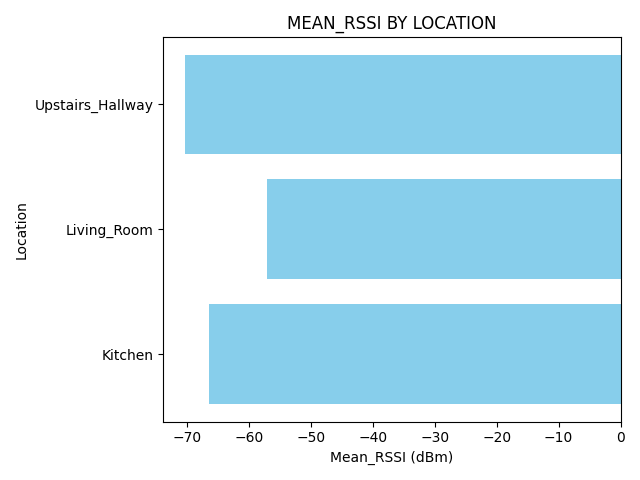
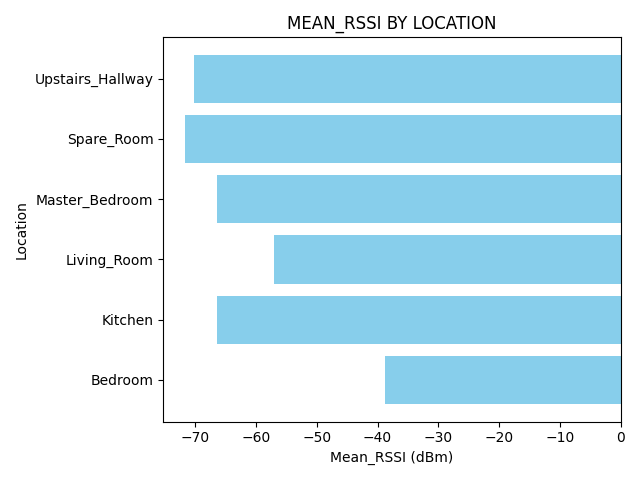
fixed viz

diff --git a/visuals/RSSI_Boxplot.py b/visuals/RSSI_Boxplot.py
@@ -7,20 +7,30 @@ processed_dir = f"{data_dir}/processed"
 kitchen_df = pd.read_csv(f"{processed_dir}/Kitchen_Combined.csv")
 living_room_df = pd.read_csv(f"{processed_dir}/Living_Room_Combined.csv")
 upstairs_hallway_df = pd.read_csv(f"{processed_dir}/Upstairs_Hallway_Combined.csv")
+bedroom_df = pd.read_csv(f"{processed_dir}/Bedroom_Combined.csv")
+master_df = pd.read_csv(f"{processed_dir}/Master_Combined.csv")
+spare_room_df = pd.read_csv(f"{processed_dir}/Spare_Room_Combined.csv")
 
 plt.boxplot(
     [
         kitchen_df["rssi"],
         living_room_df["rssi"],
-        upstairs_hallway_df["rssi"]
+        upstairs_hallway_df["rssi"],
+        bedroom_df["rssi"],
+        master_df["rssi"],
+        spare_room_df["rssi"]
     ],
     labels=[
         "Kitchen",
         "Living Room",
-        "Upstairs Hallway"
+        "Upstairs Hallway",
+        "Bedroom",
+        "Master_Room",
+        "Spare_Room"
     ]
 )
 
+plt.tight_layout()
 plt.title("RSSI Distribution by Location")
 plt.ylabel("RSSI (dBm)")
 plt.xlabel("Location")